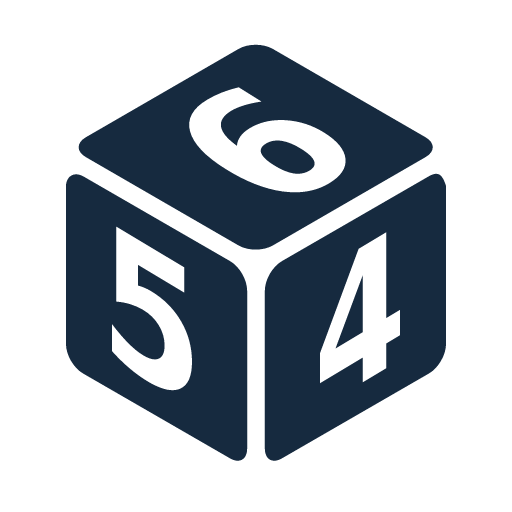
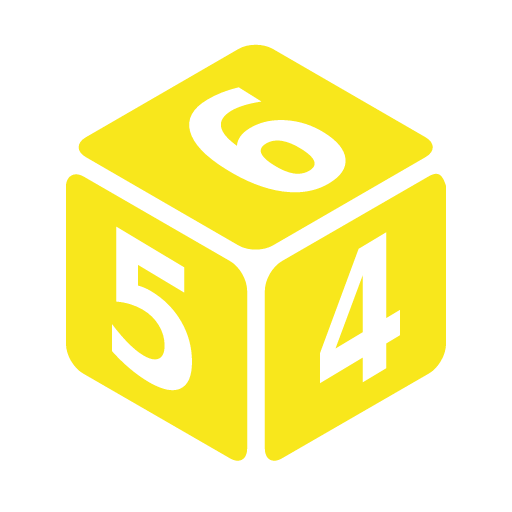
Added contact.css, changed background, button and text styles, changed the color of the d6 die to match the new background, adjusted size of the modifier checkbox in roll.html

diff --git a/roll.html b/roll.html
@@ -42,7 +42,7 @@
             </nav>
         </header>
         <!-- Tutorial -->
-        <button onclick="rollTutorial();">Help me</button>
+        <button class="btn" onclick="rollTutorial();">Help me</button>
         <!-- Dice Form -->
         <section class="container">
             <form>
@@ -58,10 +58,10 @@
                                 <img src="assets/images/d20.png" alt="20-sided die">
                             </div>
                             <div class="col-2 d-flex align-items-center step-3">
-                                <button onclick="return addDice('d20');">+</button>
+                                <button class="btn" onclick="return addDice('d20');">+</button>
                             </div>
                             <div class="col-2 d-flex align-items-center step-4">
-                                <button onclick="return substractDice('d20');">-</button>
+                                <button class="btn" onclick="return substractDice('d20');">-</button>
                             </div>
                             <!-- d12 -->
                             <div class="offset-lg-2 col-lg-2 col-4 d-flex align-items-center">
@@ -71,10 +71,10 @@
                                 <img src="assets/images/d12.png" alt="12-sided die">
                             </div>
                             <div class="col-2 d-flex align-items-center">
-                                <button onclick="return addDice('d12');">+</button>
+                                <button class="btn" onclick="return addDice('d12');">+</button>
                             </div>
                             <div class="col-2 d-flex align-items-center">
-                                <button onclick="return substractDice('d12');">-</button>
+                                <button class="btn" onclick="return substractDice('d12');">-</button>
                             </div>
                             <!-- d10 -->
                             <div class="offset-lg-2 col-lg-2 col-4 d-flex align-items-center">
@@ -84,10 +84,10 @@
                                 <img src="assets/images/d10.png" alt="10-sided die">
                             </div>
                             <div class="col-2 d-flex align-items-center">
-                                <button onclick="return addDice('d10');">+</button>
+                                <button class="btn" onclick="return addDice('d10');">+</button>
                             </div>
                             <div class="col-2 d-flex align-items-center">
-                                <button onclick="return substractDice('d10');">-</button>
+                                <button class="btn" onclick="return substractDice('d10');">-</button>
                             </div>
                             <!-- d8 -->
                             <div class="offset-lg-2 col-lg-2 col-4 d-flex align-items-center">
@@ -97,10 +97,10 @@
                                 <img src="assets/images/d8.png" alt="8-sided die">
                             </div>
                             <div class="col-2 d-flex align-items-center">
-                                <button onclick="return addDice('d8');">+</button>
+                                <button class="btn" onclick="return addDice('d8');">+</button>
                             </div>
                             <div class="col-2 d-flex align-items-center">
-                                <button onclick="return substractDice('d8');">-</button>
+                                <button class="btn" onclick="return substractDice('d8');">-</button>
                             </div>
                             <!-- d6 -->
                             <div class="offset-lg-2 col-lg-2 col-4 d-flex align-items-center">
@@ -110,10 +110,10 @@
                                 <img src="assets/images/d6.png" alt="6-sided die">
                             </div>
                             <div class="col-2 d-flex align-items-center">
-                                <button onclick="return addDice('d6');">+</button>
+                                <button class="btn" onclick="return addDice('d6');">+</button>
                             </div>
                             <div class="col-2 d-flex align-items-center">
-                                <button onclick="return substractDice('d6');">-</button>
+                                <button class="btn" onclick="return substractDice('d6');">-</button>
                             </div>
                             <!-- d4 -->
                             <div class="offset-lg-2 col-lg-2 col-4 d-flex align-items-center">
@@ -123,10 +123,10 @@
                                 <img src="assets/images/d4.png" alt="4-sided die">
                             </div>
                             <div class="col-2 d-flex align-items-center">
-                                <button onclick="return addDice('d4');">+</button>
+                                <button class="btn" onclick="return addDice('d4');">+</button>
                             </div>
                             <div class="col-2 d-flex align-items-center">
-                                <button onclick="return substractDice('d4');">-</button>
+                                <button class="btn" onclick="return substractDice('d4');">-</button>
                             </div>
                         </div>
                     </div>
@@ -186,64 +186,64 @@
         </section>
         <!-- Skills -->
         <section class="container border-section">
-            <button class="step-9" type="button" data-toggle="collapse" data-target="#skills-collapse" aria-expanded="false" aria-controls="skills-collapse">
+            <button class="btn step-9" type="button" data-toggle="collapse" data-target="#skills-collapse" aria-expanded="false" aria-controls="skills-collapse">
                 Skills
                 <i class="fa fa-angle-down" aria-hidden="true"></i>
             </button>
             <div id="skills-collapse" class="row collapse">
                 <div class="col-6 col-lg-4">
-                    <button onclick="return skillRoll('acrobatics');">Acrobatics</button>
+                    <button class="btn" onclick="return skillRoll('acrobatics');">Acrobatics</button>
                 </div>
                 <div class="col-6 col-lg-4">
-                    <button onclick="return skillRoll('animalhandling');">Animal Handling</button>
+                    <button class="btn" onclick="return skillRoll('animalhandling');">Animal Handling</button>
                 </div>
                 <div class="col-6 col-lg-4">
-                    <button onclick="return skillRoll('arcana');">Arcana</button>
+                    <button class="btn" onclick="return skillRoll('arcana');">Arcana</button>
                 </div>
                 <div class="col-6 col-lg-4">
-                    <button onclick="return skillRoll('athletics');">Athletics</button>
+                    <button class="btn" onclick="return skillRoll('athletics');">Athletics</button>
                 </div>
                 <div class="col-6 col-lg-4">
-                    <button onclick="return skillRoll('deception');">Deception</button>
+                    <button class="btn" onclick="return skillRoll('deception');">Deception</button>
                 </div>
                 <div class="col-6 col-lg-4">
-                    <button onclick="return skillRoll('history');">History</button>
+                    <button class="btn" onclick="return skillRoll('history');">History</button>
                 </div>
                 <div class="col-6 col-lg-4">
-                    <button onclick="return skillRoll('insight');">Insight</button>
+                    <button class="btn" onclick="return skillRoll('insight');">Insight</button>
                 </div>
                 <div class="col-6 col-lg-4">
-                    <button onclick="return skillRoll('intimidation');">Intimidation</button>
+                    <button class="btn" onclick="return skillRoll('intimidation');">Intimidation</button>
                 </div>
                 <div class="col-6 col-lg-4">
-                    <button onclick="return skillRoll('investigation');">Investigation</button>
+                    <button class="btn" onclick="return skillRoll('investigation');">Investigation</button>
                 </div>
                 <div class="col-6 col-lg-4">
-                    <button onclick="return skillRoll('medicine');">Medicine</button>
+                    <button class="btn" onclick="return skillRoll('medicine');">Medicine</button>
                 </div>
                 <div class="col-6 col-lg-4">
-                    <button onclick="return skillRoll('nature');">Nature</button>
+                    <button class="btn" onclick="return skillRoll('nature');">Nature</button>
                 </div>
                 <div class="col-6 col-lg-4">
-                    <button onclick="return skillRoll('perception');">Perception</button>
+                    <button class="btn" onclick="return skillRoll('perception');">Perception</button>
                 </div>
                 <div class="col-6 col-lg-4">
-                    <button onclick="return skillRoll('performance');">Performance</button>
+                    <button class="btn" onclick="return skillRoll('performance');">Performance</button>
                 </div>
                 <div class="col-6 col-lg-4">
-                    <button onclick="return skillRoll('persuasion');">Persuasion</button>
+                    <button class="btn" onclick="return skillRoll('persuasion');">Persuasion</button>
                 </div>
                 <div class="col-6 col-lg-4">
-                    <button onclick="return skillRoll('religion');">Religion</button>
+                    <button class="btn" onclick="return skillRoll('religion');">Religion</button>
                 </div>
                 <div class="col-6 col-lg-4">
-                    <button onclick="return skillRoll('sleightofhand');">Sleight of Hand</button>
+                    <button class="btn" onclick="return skillRoll('sleightofhand');">Sleight of Hand</button>
                 </div>
                 <div class="col-6 col-lg-4">
-                    <button onclick="return skillRoll('stealth');">Stealth</button>
+                    <button class="btn" onclick="return skillRoll('stealth');">Stealth</button>
                 </div>
                 <div class="col-6 col-lg-4">
-                    <button onclick="return skillRoll('survival');">Survival</button>
+                    <button class="btn" onclick="return skillRoll('survival');">Survival</button>
                 </div>
             </div>
         </section>
@@ -252,15 +252,15 @@
             <div class="row">
                 <!-- ATK Roll Button -->
                 <div class="col-4">
-                    <button class="step-10" onclick="return atkRoll();">ATK Roll</button>
+                    <button class="btn step-10" onclick="return atkRoll();">ATK Roll</button>
                 </div>
                  <!-- Clear Button -->
                 <div class="col-4">
-                    <button class="step-11" onclick="return clearDice();">Clear Dice</button>
+                    <button class="btn step-11" onclick="return clearDice();">Clear Dice</button>
                 </div>
                 <!-- Free Roll Button -->
                 <div class="col-4">
-                    <button class="step-12" onclick="return freeRoll();">Free Roll</button>
+                    <button class="btn step-12" onclick="return freeRoll();">Free Roll</button>
                 </div>
             </div>
         </section>   

diff --git a/assets/css/common.css b/assets/css/common.css
@@ -21,19 +21,18 @@
 /*--------------------------------Whole Page */
 
 body{
-    background-image: url('../images/background.png');
+    background-image: url('../images/black-scales.png');
     background-repeat: repeat;
     text-align: center;
     font-family: 'draconisregular', sans-serif;
     font-size: larger;
     scroll-behavior: smooth;
+    color: ghostwhite;
 }
 
-button{
-    background-image: url('../images/stone-background.png');
-    background-size: 100% 100%;
-    background-repeat: no-repeat;
-    border-color: burlywood;
+.btn{
+    background-color: lightgray;
+    border: 1px solid grey;
 }
 
 section{
@@ -48,6 +47,11 @@ section{
 }
 
 /*--------------------------------Menu */
+
+/* Changes dropdown menu text color to white */
+#drop-menu .dropdown-item{
+    color: ghostwhite;
+}
 
 #burger-menu-button{
     background-image: url('../images/black-scales.png');
@@ -66,7 +70,12 @@ nav li{
     list-style: none;
 }
 
+/* Centers inputs throughout the pages */
 input{
     text-align: center;
 }
 
+/* Makes it so the tutorial text is back to black from ghostwhite */
+.introjs-tooltiptext{
+    color: black;
+}

diff --git a/contact.html b/contact.html
@@ -12,6 +12,7 @@
         <link rel="stylesheet" href="https://stackpath.bootstrapcdn.com/font-awesome/4.7.0/css/font-awesome.min.css">
         <link rel="stylesheet" href="https://cdnjs.cloudflare.com/ajax/libs/hover.css/2.3.1/css/hover-min.css">
         <link rel="stylesheet" href="assets/css/common.css">
+        <link rel="stylesheet" href="assets/css/contact.css">
         <link rel="preconnect" href="https://fonts.gstatic.com">
         <title>DnD Roller</title>
         <script type="text/javascript"

diff --git a/character-sheet.html b/character-sheet.html
@@ -42,7 +42,7 @@
         </nav>
     </header>
     <!-- Tutorial -->
-    <button onclick="characterSheetTutorial();">Help me</button>
+    <button class="btn" onclick="characterSheetTutorial();">Help me</button>
     <!-- Stats -->
     <section class="container">
         <form>

diff --git a/assets/css/roll.css b/assets/css/roll.css
@@ -26,7 +26,14 @@
 }
 
 #skills-collapse button{
-    width: 125px;
+    width: 120px;
     margin-top: 10px;
     margin-bottom: 10px;
+}
+
+.proficiency{
+    padding: 0px;
+    width:30px;
+    height: 30px;
+    position: relative;
 }

diff --git a/assets/css/contact.css b/assets/css/contact.css
@@ -1,0 +1,4 @@
+/* Aligns text back to the start */
+input{
+    text-align: start;
+}
